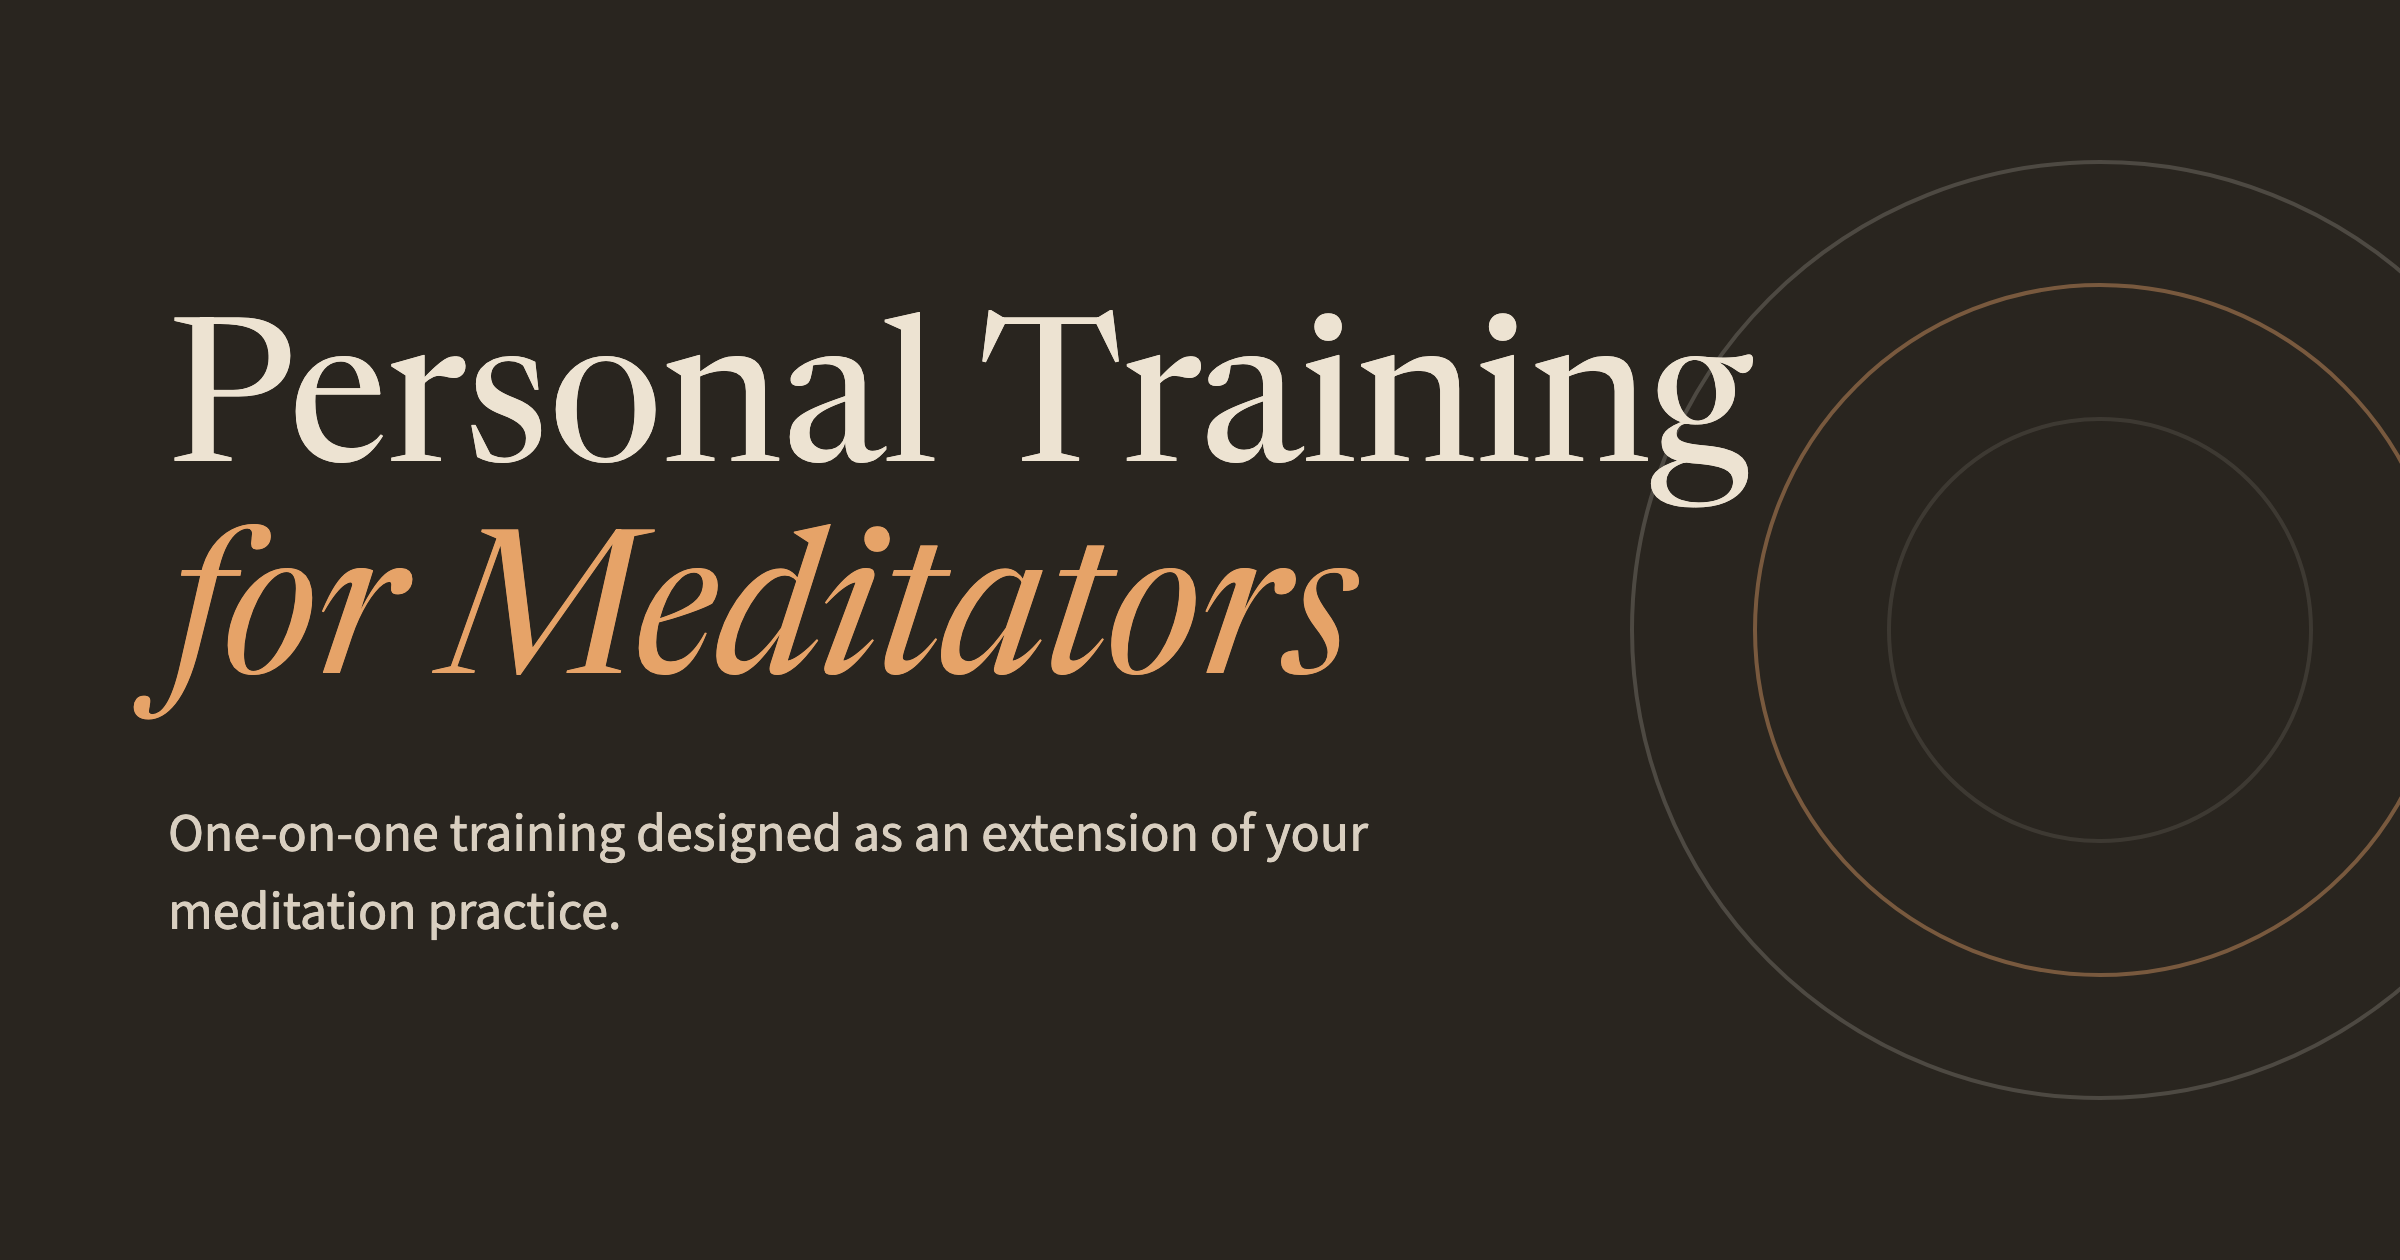
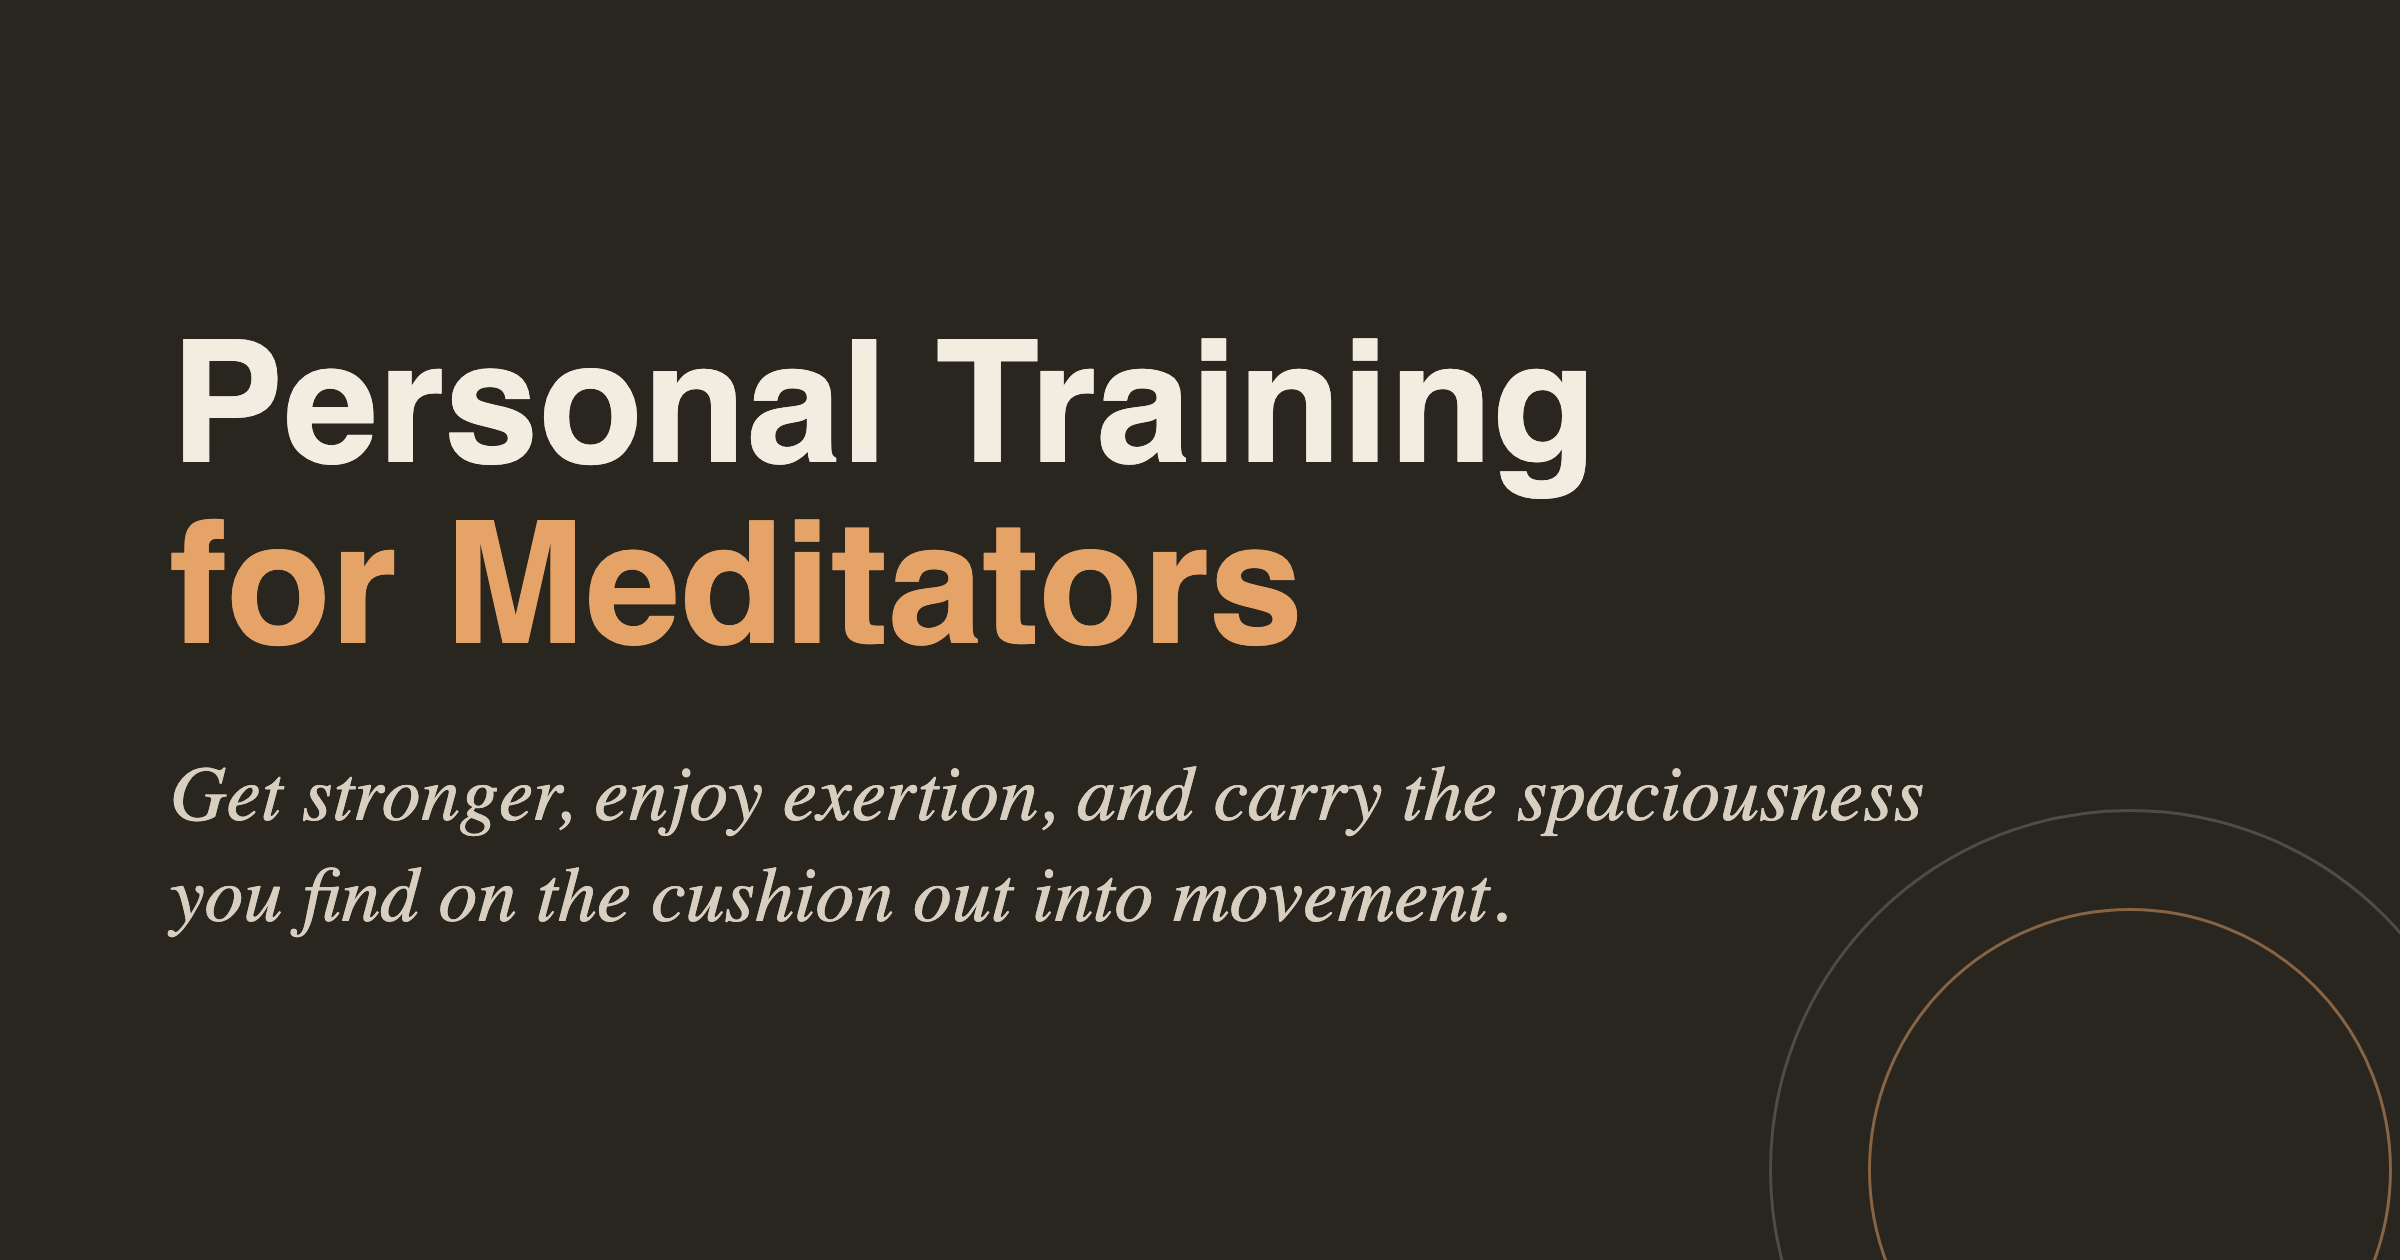
Voice-pass stragglers: cadence FAQ + new og card (#6)

diff --git a/index.html b/index.html
@@ -6,11 +6,11 @@
 <title>Personal Training for Meditators</title>
 <meta name="description" content="One-on-one personal training with extra steps: get stronger, learn to enjoy exertion, and carry the spaciousness you find on the cushion out into chaotic movement.">
 <meta property="og:title" content="Personal Training for Meditators">
-<meta property="og:description" content="One-on-one training designed as an extension of your meditation practice.">
+<meta property="og:description" content="Get stronger, enjoy exertion, and carry the spaciousness you find on the cushion out into movement.">
 <meta property="og:image" content="https://personaltrainingformeditators.com/og.png">
 <meta property="og:image:width" content="2400">
 <meta property="og:image:height" content="1260">
-<meta property="og:image:alt" content="Personal Training for Meditators — one-on-one training designed as an extension of your meditation practice.">
+<meta property="og:image:alt" content="Personal Training for Meditators — get stronger, enjoy exertion, and carry the spaciousness you find on the cushion out into movement.">
 <meta property="og:url" content="https://personaltrainingformeditators.com/">
 <meta property="og:type" content="website">
 <meta name="twitter:card" content="summary_large_image">
@@ -562,7 +562,7 @@
       <div class="faq">
         <details><summary>Is this remote?</summary><div class="ans">Yes &mdash; over video. You'll need a bit of space and a camera.</div></details>
         <details><summary>Do I need equipment?</summary><div class="ans">Not to start &mdash; your body and the floor go a long way. If strength work becomes part of your practice, we'll figure out gear that fits your setup and budget.</div></details>
-        <details><summary>How often would we meet?</summary><div class="ans">We set a cadence that fits your life. The usual standard is at least one session per week. You commit to three months of work at the outset, so we have enough time to see real progress.</div></details>
+        <details><summary>How often would we meet?</summary><div class="ans">We set a cadence that fits your life. The usual standard is roughly one session per week. You commit to three months of work at the outset, so we have enough time to see real progress.</div></details>
         <details><summary>Isn't this just personal training with extra steps?</summary><div class="ans">That's exactly what this is. But the extra steps are the point: we go beyond programming and accountability, into a learning relationship &mdash; training how you experience movement, not just the cool stuff you can do. Not many fitness professionals speak meditator. I also have no interest in dependency: the aim is a practice you can author yourself, not an automated routine.</div></details>
         <details><summary>What does it cost?</summary><div class="ans">$1,800 for the three months, paid upfront &mdash; or $700 a month. That&rsquo;s $150 vs. $175 per session. If cost is a barrier, scholarship and reimbursement options are under <a href="#s06">Cost &amp; coverage</a>.</div></details>
         <details><summary>What if I decide it&rsquo;s not for me?</summary><div class="ans">If you decide it&rsquo;s not for you, I&rsquo;ll refund the rest, minus the cost of the first session.</div></details>